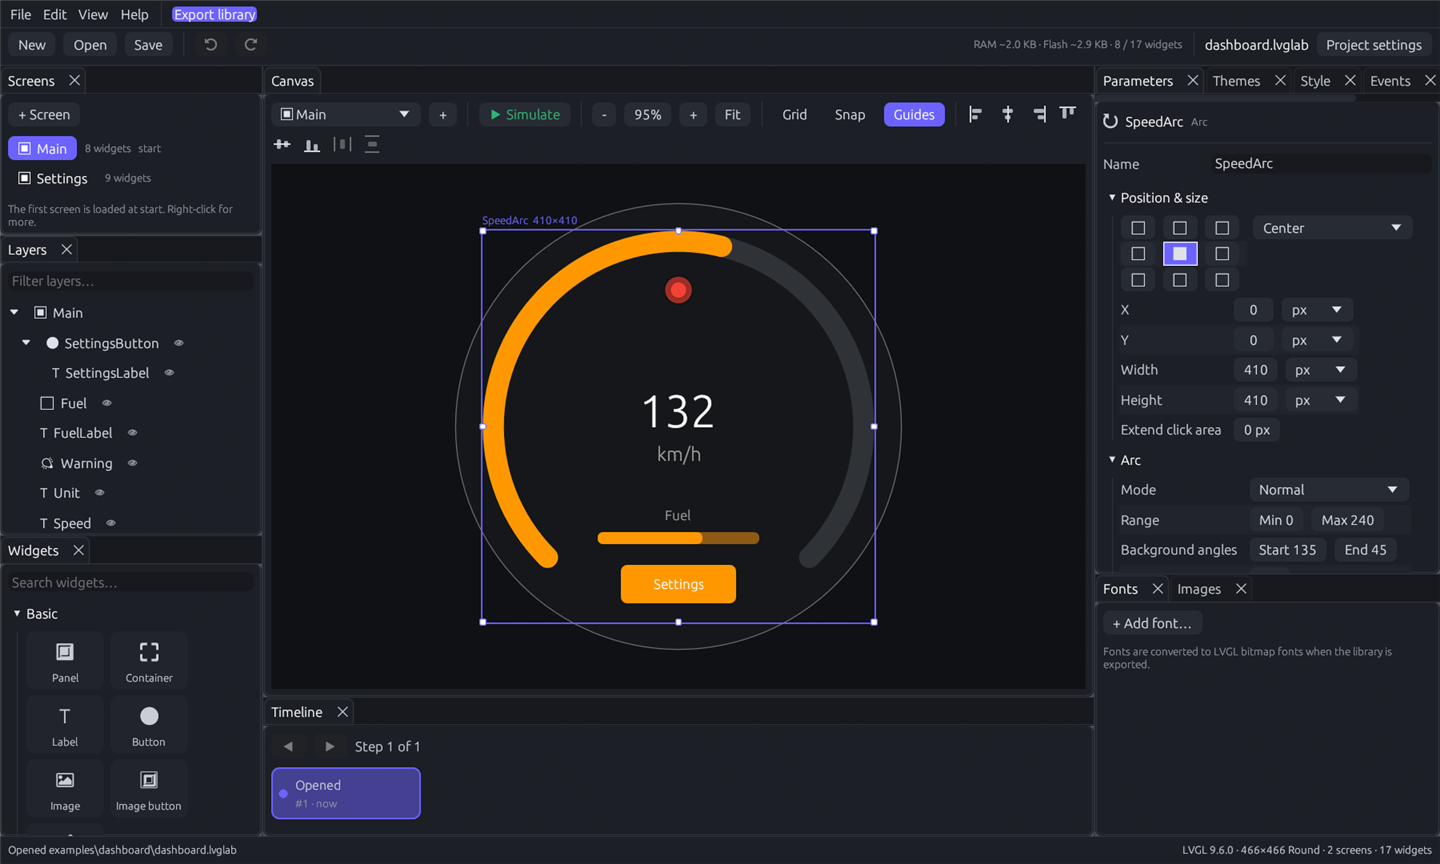
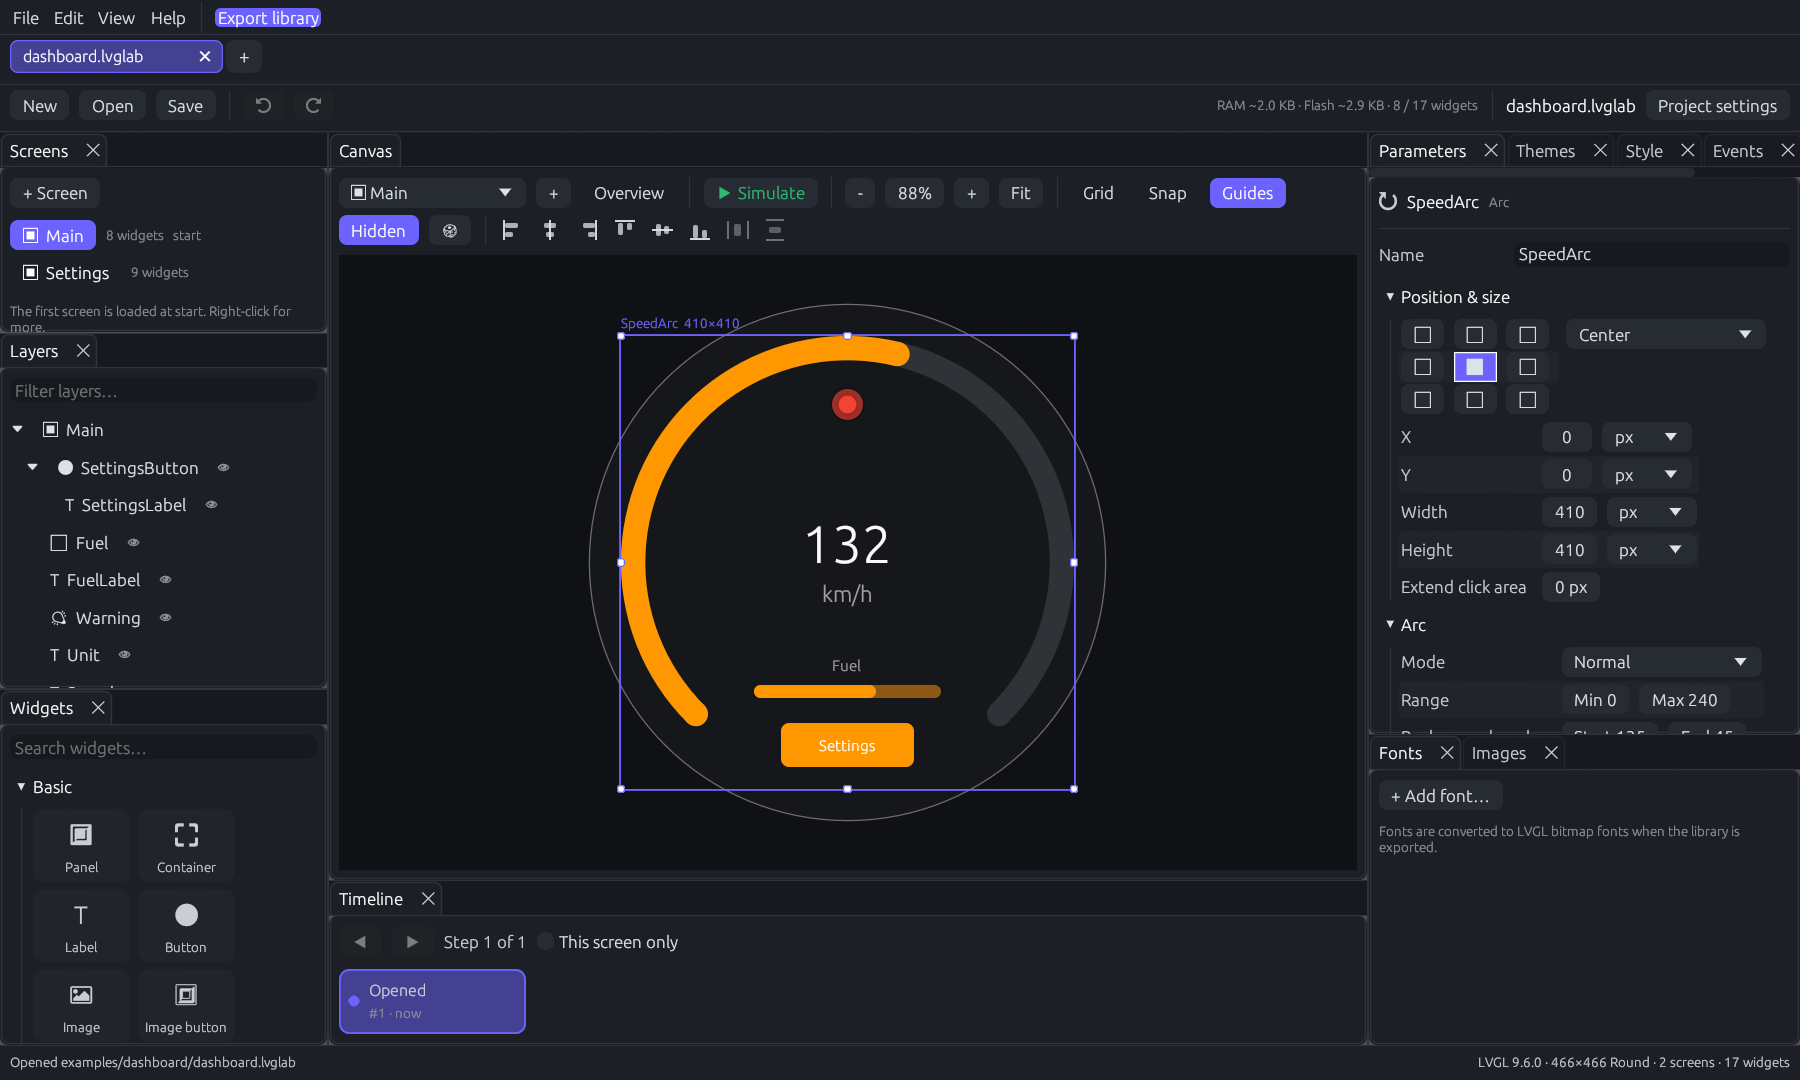
README: new screenshots (tabs, search, LVGL preview), command line options

diff --git a/crates/app/src/main.rs b/crates/app/src/main.rs
@@ -31,10 +31,16 @@ mod widgets;
 use std::path::PathBuf;
 
 /// Command line:
-/// `lvglab [project.lvglab | squareline.spj] [--select <widget>] [--dialog <name>] [--panel <name>] [--simulate] [--screenshot out.png] [--export-screenshots <folder>]`.
+/// `lvglab [project.lvglab | squareline.spj]... [--renderer editor|lvgl] [--select <widget>] [--dialog <name>] [--panel <name>] [--simulate] [--screenshot out.png] [--export-screenshots <folder>]`.
 #[derive(Default)]
 pub struct LaunchOptions {
-    pub file: Option<PathBuf>,
+    /// Projects to open, each in its own tab.
+    pub files: Vec<PathBuf>,
+    /// `editor` or `lvgl`: the preview renderer for this session.
+    pub renderer: Option<String>,
+    /// `en`, `de`, `es` or `fr` / `dark`, `light`: for this session (documentation).
+    pub language: Option<String>,
+    pub appearance: Option<String>,
     /// Name of a widget to select after opening.
     pub select: Option<String>,
     /// Opens a dialog at start (`start`, `overview`, `search:<text>`, `preferences`, `about`, `new`, `tour`, `tour:<step>`, `merge:<file>`, `merge-conflicts:<file>`, `discard`, `close`);
@@ -59,6 +65,12 @@ impl LaunchOptions {
         while let Some(arg) = args.next() {
             if arg == "--screenshot" {
                 options.screenshot = args.next().map(PathBuf::from);
+            } else if arg == "--renderer" {
+                options.renderer = args.next().map(|s| s.to_string_lossy().into_owned());
+            } else if arg == "--language" {
+                options.language = args.next().map(|s| s.to_string_lossy().into_owned());
+            } else if arg == "--appearance" {
+                options.appearance = args.next().map(|s| s.to_string_lossy().into_owned());
             } else if arg == "--randomize" {
                 options.randomize = true;
             } else if arg == "--export-screenshots" {
@@ -72,7 +84,7 @@ impl LaunchOptions {
             } else if arg == "--select" {
                 options.select = args.next().map(|s| s.to_string_lossy().into_owned());
             } else {
-                options.file = Some(PathBuf::from(arg));
+                options.files.push(PathBuf::from(arg));
             }
         }
         options

diff --git a/crates/app/src/app.rs b/crates/app/src/app.rs
@@ -366,10 +366,36 @@ impl StudioApp {
             }
         }
         let reopen = settings.reopen_last.then(|| settings.recent.first().cloned()).flatten().filter(|p| p.exists());
+        match options.language.as_deref() {
+            Some("en") => settings.language = i18n::Language::English,
+            Some("de") => settings.language = i18n::Language::German,
+            Some("es") => settings.language = i18n::Language::Spanish,
+            Some("fr") => settings.language = i18n::Language::French,
+            _ => {}
+        }
+        match options.appearance.as_deref() {
+            Some("dark") => settings.appearance = crate::settings::Appearance::Dark,
+            Some("light") => settings.appearance = crate::settings::Appearance::Light,
+            _ => {}
+        }
+        i18n::set_language(settings.language);
+        visuals::apply_appearance(&cc.egui_ctx, settings.appearance);
+        match options.renderer.as_deref() {
+            Some("lvgl") => settings.preview_renderer = crate::settings::PreviewRenderer::Lvgl,
+            Some("editor") => settings.preview_renderer = crate::settings::PreviewRenderer::Editor,
+            _ => {}
+        }
         let mut studio = Studio::new(settings);
         let dialog = options.dialog.as_deref();
-        match options.file.clone().or(reopen) {
-            Some(file) => studio.execute(Command::OpenPath(file), true),
+        let files = if options.files.is_empty() { reopen.into_iter().collect() } else { options.files.clone() };
+        match files.first().cloned() {
+            Some(file) => {
+                studio.execute(Command::OpenPath(file), true);
+                // More projects open in further tabs.
+                for file in files.into_iter().skip(1) {
+                    studio.execute(Command::OpenPath(file), true);
+                }
+            }
             // Without a project the editor starts with the start page.
             None if (dialog.is_none() && options.screenshot.is_none()) || dialog == Some("start") => {
                 studio.start_page = Some(crate::start::entries(&studio.settings.recent));

diff --git a/README.md b/README.md
@@ -139,6 +139,13 @@ Design screens visually, import existing **SquareLine Studio** projects, and LVG
 | ![Start page](docs/start-page.png) | ![New project](docs/new-project.png) |
 | **Welcome tour** | **Merge projects** |
 | ![Welcome tour](docs/welcome-tour.png) | ![Merge projects](docs/merge.png) |
+| **Several projects in tabs** | **Search** (Ctrl+F) |
+| ![Tabs](docs/tabs.png) | ![Search](docs/search.png) |
+
+**LVGL preview**: the same screen drawn by the editor (left) and by LVGL itself (right). The built-in
+Montserrat fonts have no umlauts, which only the real library shows:
+
+![Editor renderer and LVGL renderer](docs/lvgl-preview.png)
 
 ## Compatibility
 
@@ -184,12 +191,14 @@ Platform notes:
 ### Command line
 
 ```text
-lvglab [project.lvglab | squareline.spj] [--select <widget>] [--dialog <name>] [--simulate] [--screenshot <out.png>] [--export-screenshots <folder>] [--randomize]
+lvglab [project.lvglab | squareline.spj]... [--select <widget>] [--dialog <name>] [--simulate] [--renderer editor|lvgl] [--language en|de|es|fr] [--appearance dark|light] [--screenshot <out.png>] [--export-screenshots <folder>] [--randomize]
 ```
 
 | Option | Meaning |
 |---|---|
-| `project.lvglab` / `file.spj` | Opens a studio project, or imports a SquareLine project. |
+| `project.lvglab` / `file.spj` | Opens a studio project, or imports a SquareLine project. Several files open in several tabs. |
+| `--renderer editor\|lvgl` | Preview renderer for this session (see *LVGL preview*). |
+| `--language`, `--appearance` | Language and dark/light appearance for this session, e.g. for documentation screenshots. |
 | `--select <widget>` | Selects a widget by name after opening. |
 | `--simulate` | Starts the simulator with the record overlay. |
 | `--dialog <name>` | Opens `start`, `new`, `preferences`, `about`, `discard`, `close`, the welcome tour (`tour`, `tour:<step>`) or the merge wizard (`merge:<file>`, `merge-conflicts:<file>`) at start (documentation). |
@@ -244,6 +253,8 @@ Keyboard shortcuts:
 | Ctrl+F | Search widgets, properties and styles |
 | Ctrl+Z / Ctrl+Y (Ctrl+Shift+Z) | Step back / forward in the timeline |
 | Ctrl+C / Ctrl+X / Ctrl+V / Ctrl+D | Copy, cut, paste, duplicate |
+| Ctrl+Shift+C / Ctrl+Shift+V | Copy / paste the properties of a widget |
+| Ctrl+Tab / Ctrl+Shift+Tab, Ctrl+W | Next / previous project tab, close tab |
 | Del | Delete selection |
 | Arrow keys (+ Shift) | Move selection by 1 px (Shift: configurable, default 10 px) |
 | Space + drag, middle mouse | Pan the canvas |
